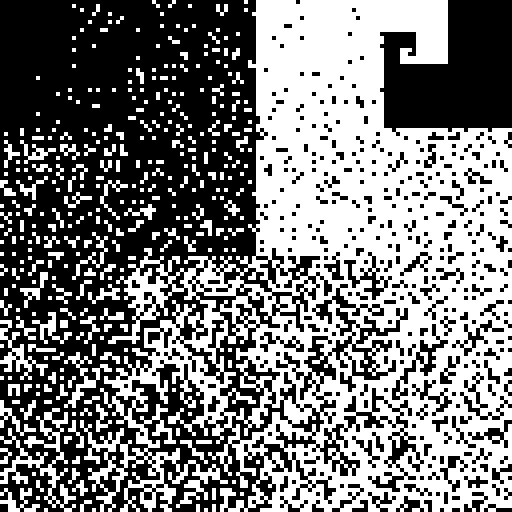
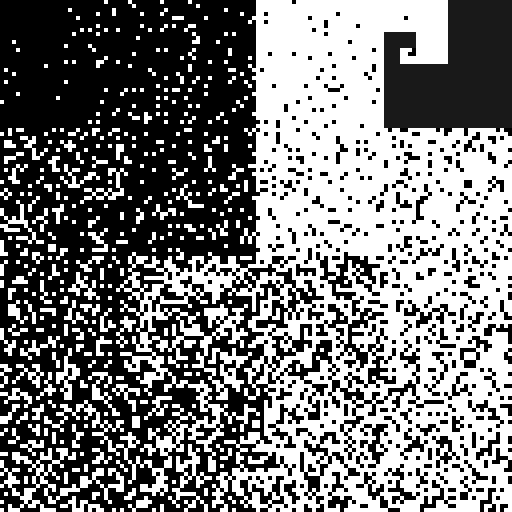
fix bug in hilbert

diff --git a/matthewplotlib/plots.py b/matthewplotlib/plots.py
@@ -1265,7 +1265,7 @@ class hilbert(plot):
         fg_grid = braille_encode(lit_grid)
         for i in range(height):
             for j in range(width):
-                if bg_grid[i, j]:
+                if bg_grid[i, j] > 0x2800:
                     braille_char = chr(fg_grid[i, j])
                     array[i][j] = Char(
                         c=braille_char,
@@ -1301,8 +1301,8 @@ class text(plot):
 
     * text : str
         
-        The text to be displayed. Newline characters (`\n`) will create
-        separate lines in the plot.
+        The text to be displayed. Newline characters will create separate lines
+        in the plot.
     
     * color : optional ColorLike
         
